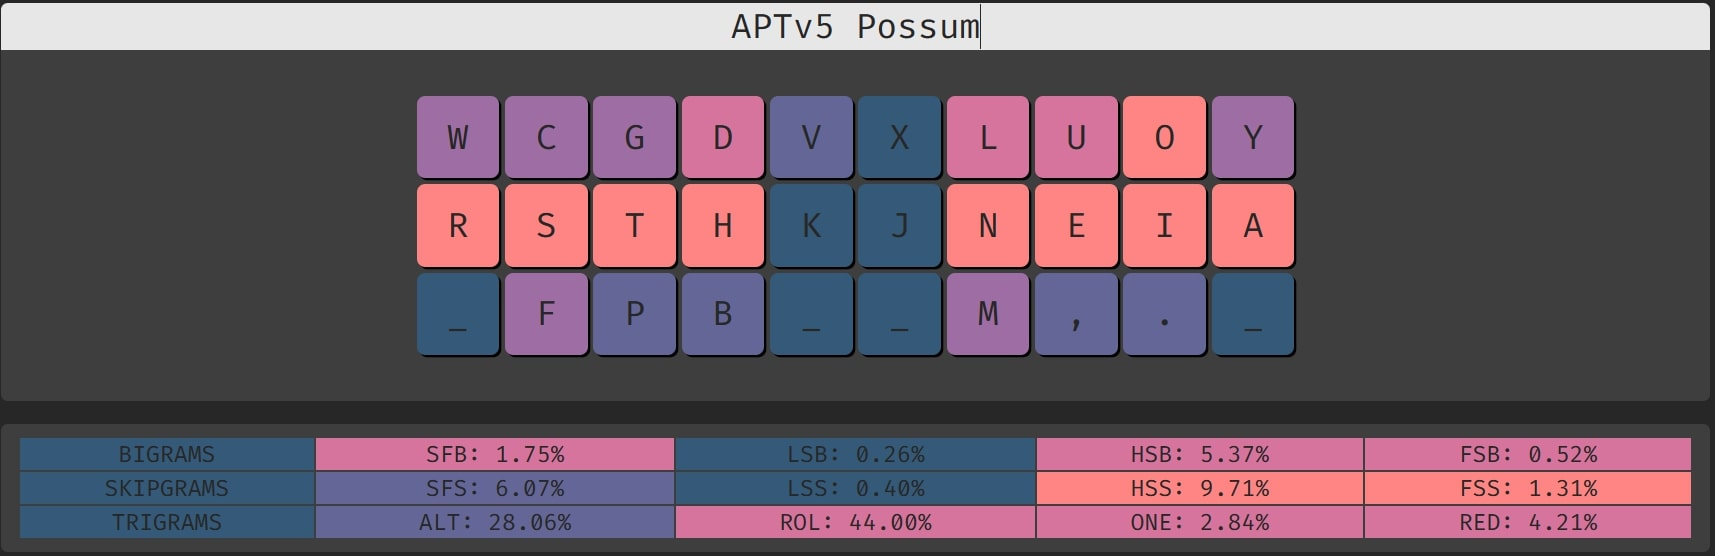
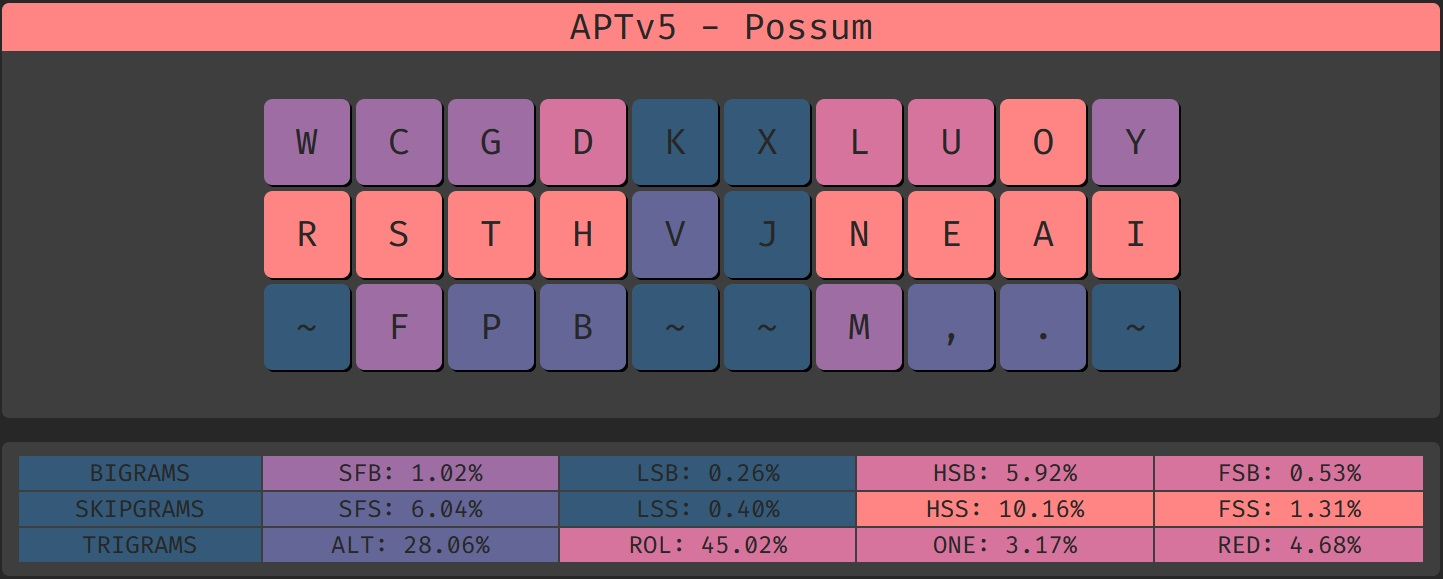
update apt 30 in base and create specific combos file for 30 key layout

Changed region(s): [[0.1559, 0.1529, 0.842, 0.6421], [0.0, 0.7644, 0.9979, 0.9784], [0.0, 0.0, 0.9979, 0.0917]]

diff --git a/_layouts/keymap_layouts/layout.md b/_layouts/keymap_layouts/layout.md
@@ -15,12 +15,12 @@ Layouts and their variations by number of keys
 | -------------- | ---- | ---- | ---- | ----- | ----- |
 | Colemak-DH     | 34   | 1.49 | 7.95 | 27.58 | 42.78 |
 | Colemak-DHv    | 34   | 0.88 | 8.10 | 25.96 | 43.71 |
-| Colemak-DHv    | 32   | 1.27 | 8.60 | 26.38 | 44.35 |
 | Bird           | 34   | 1.31 | 7.89 | 39.80 | 40.18 |
-| Bird           | 32   | 1.31 | 7.88 | 39.74 | 40.08 |
-| Bird           | 30   | 1.30 | 7.70 | 36.44 | 39.07 |
 | APTv5          | 34   | 1.06 | 6.13 | 26.59 | 44.71 |
+| Colemak-DHv    | 32   | 1.27 | 8.60 | 26.38 | 44.35 |
+| Bird           | 32   | 1.31 | 7.88 | 39.74 | 40.08 |
 | APTv5          | 32   | 1.31 | 7.88 | 39.74 | 40.08 |
+| Bird           | 30   | 1.30 | 7.70 | 36.44 | 39.07 |
 | APTv5 - Possum | 30   | 1.02 | 6.04 | 28.06 | 45.02 |
 
 ## [Colemak-DH](https://colemakmods.github.io/mod-dh/)
@@ -202,7 +202,6 @@ r s t h k   j n e a i
 Combos:
 
 - Q on
-- V on
 - Z on
 
 - SFB: 1.02
